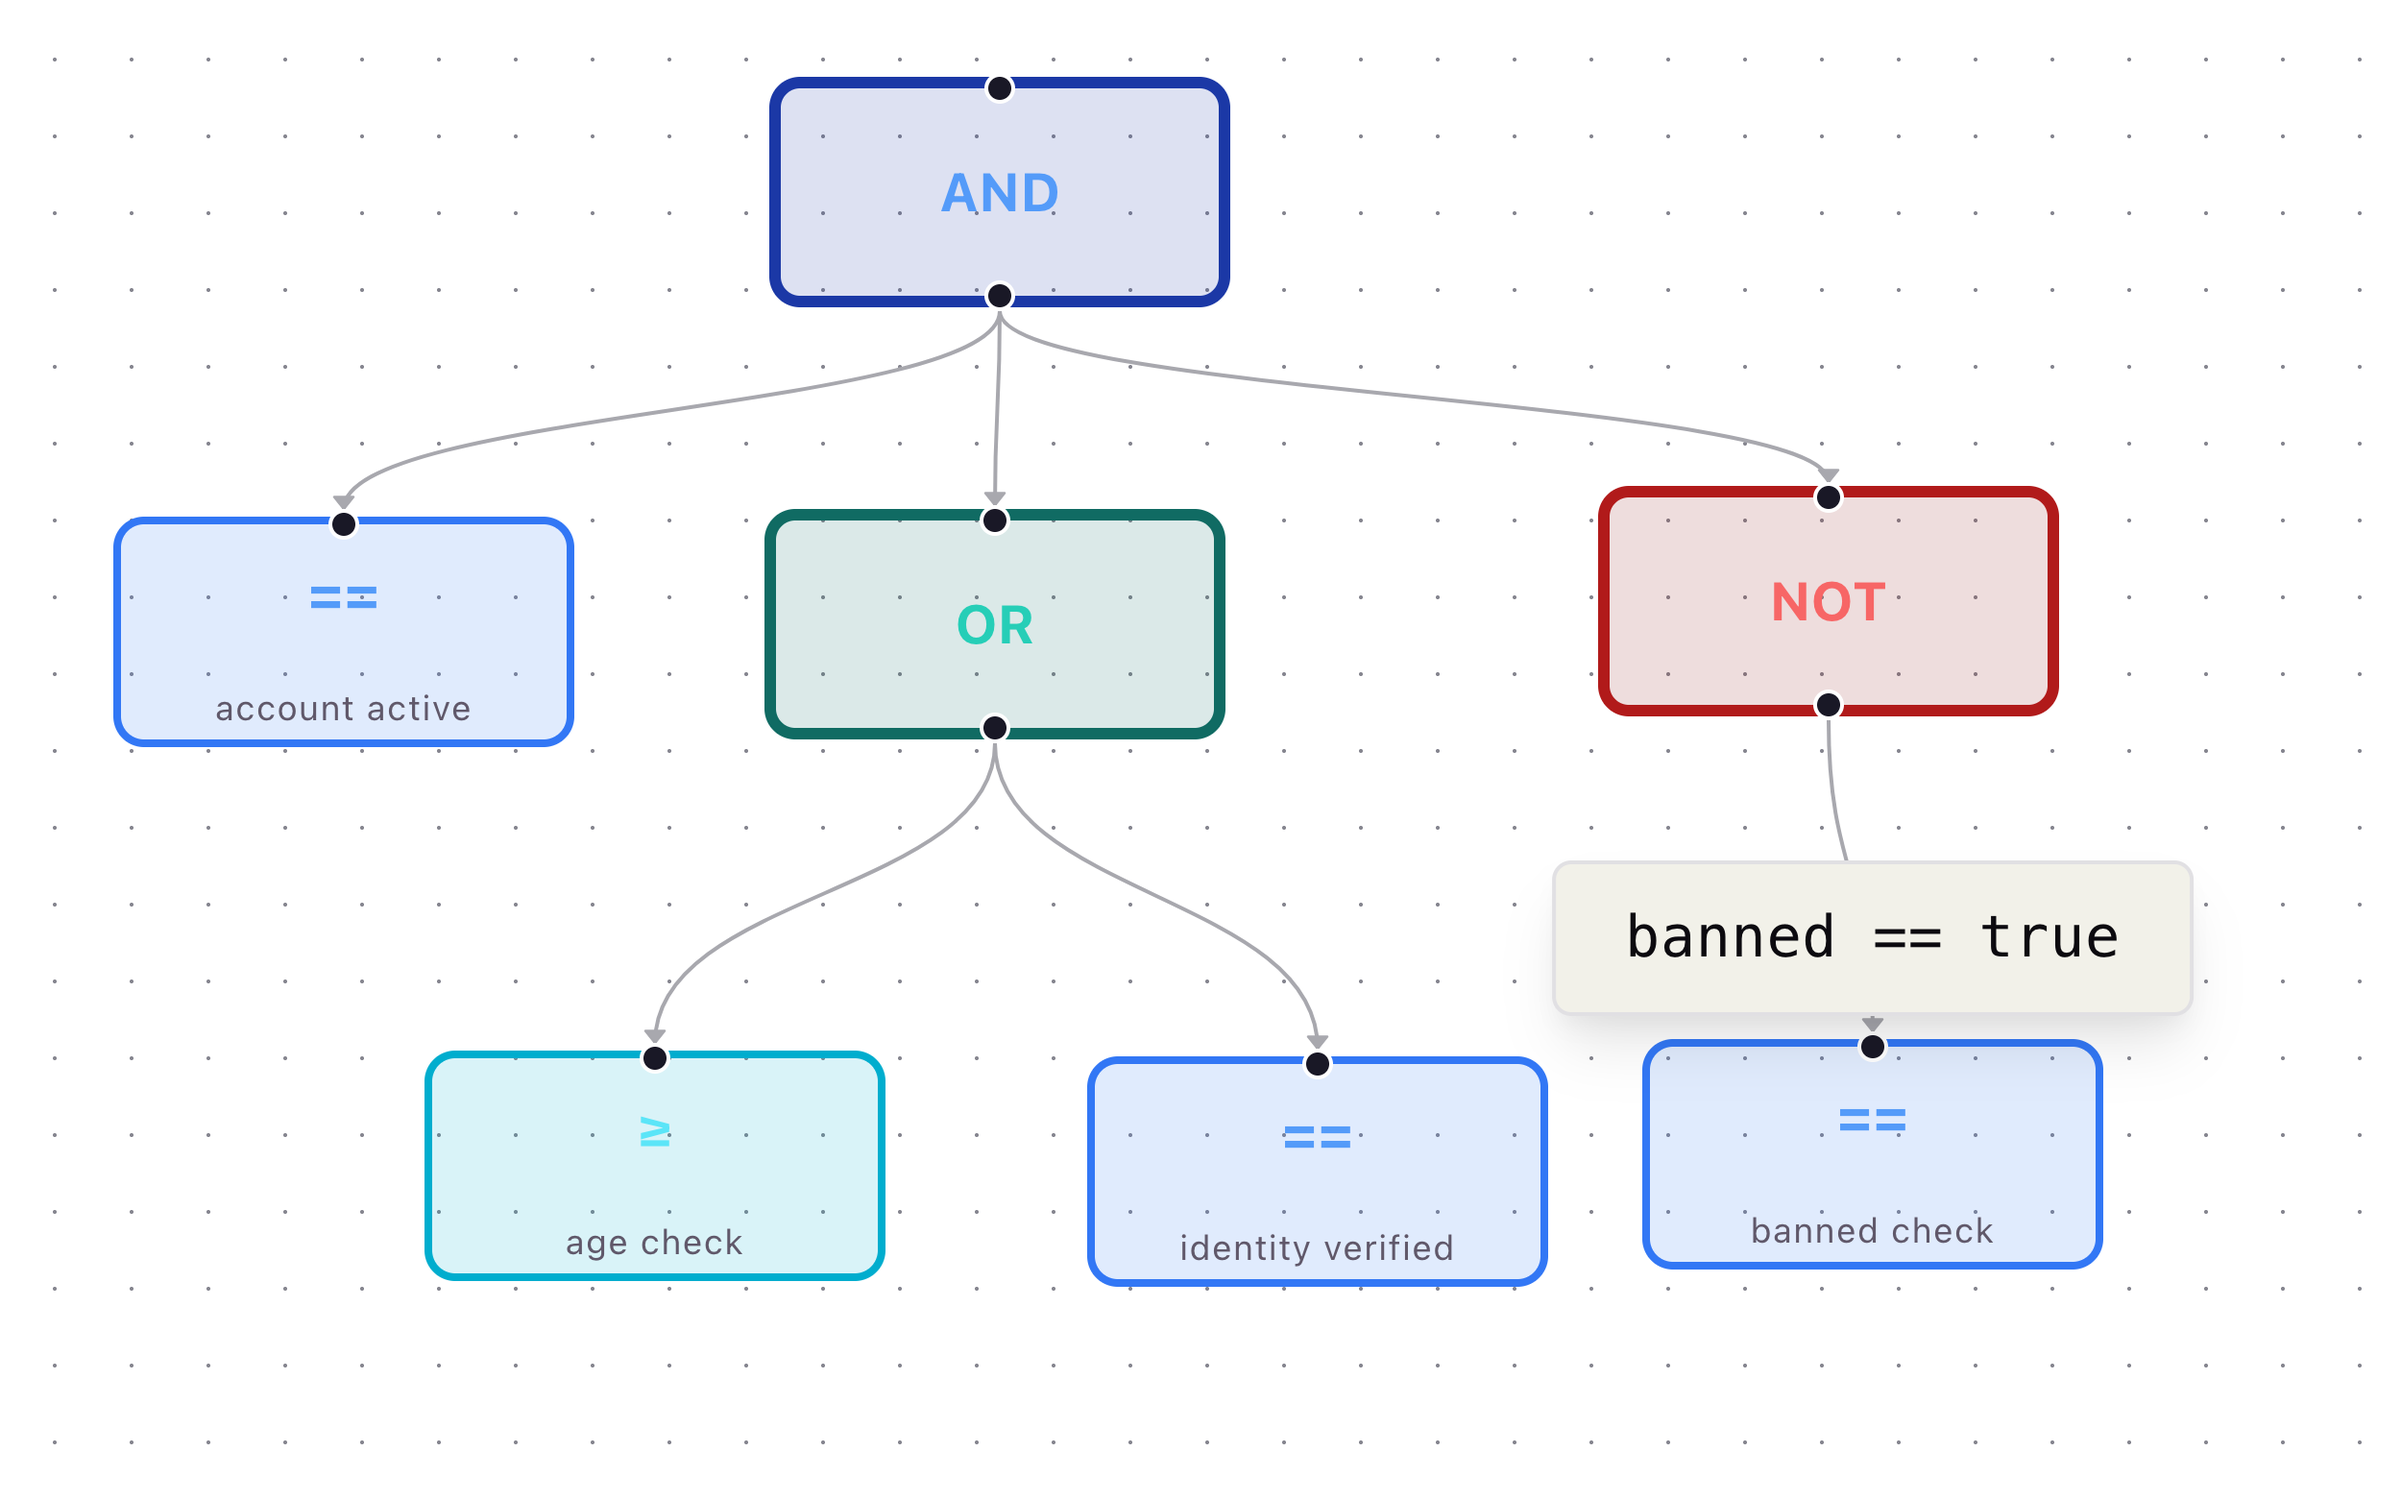
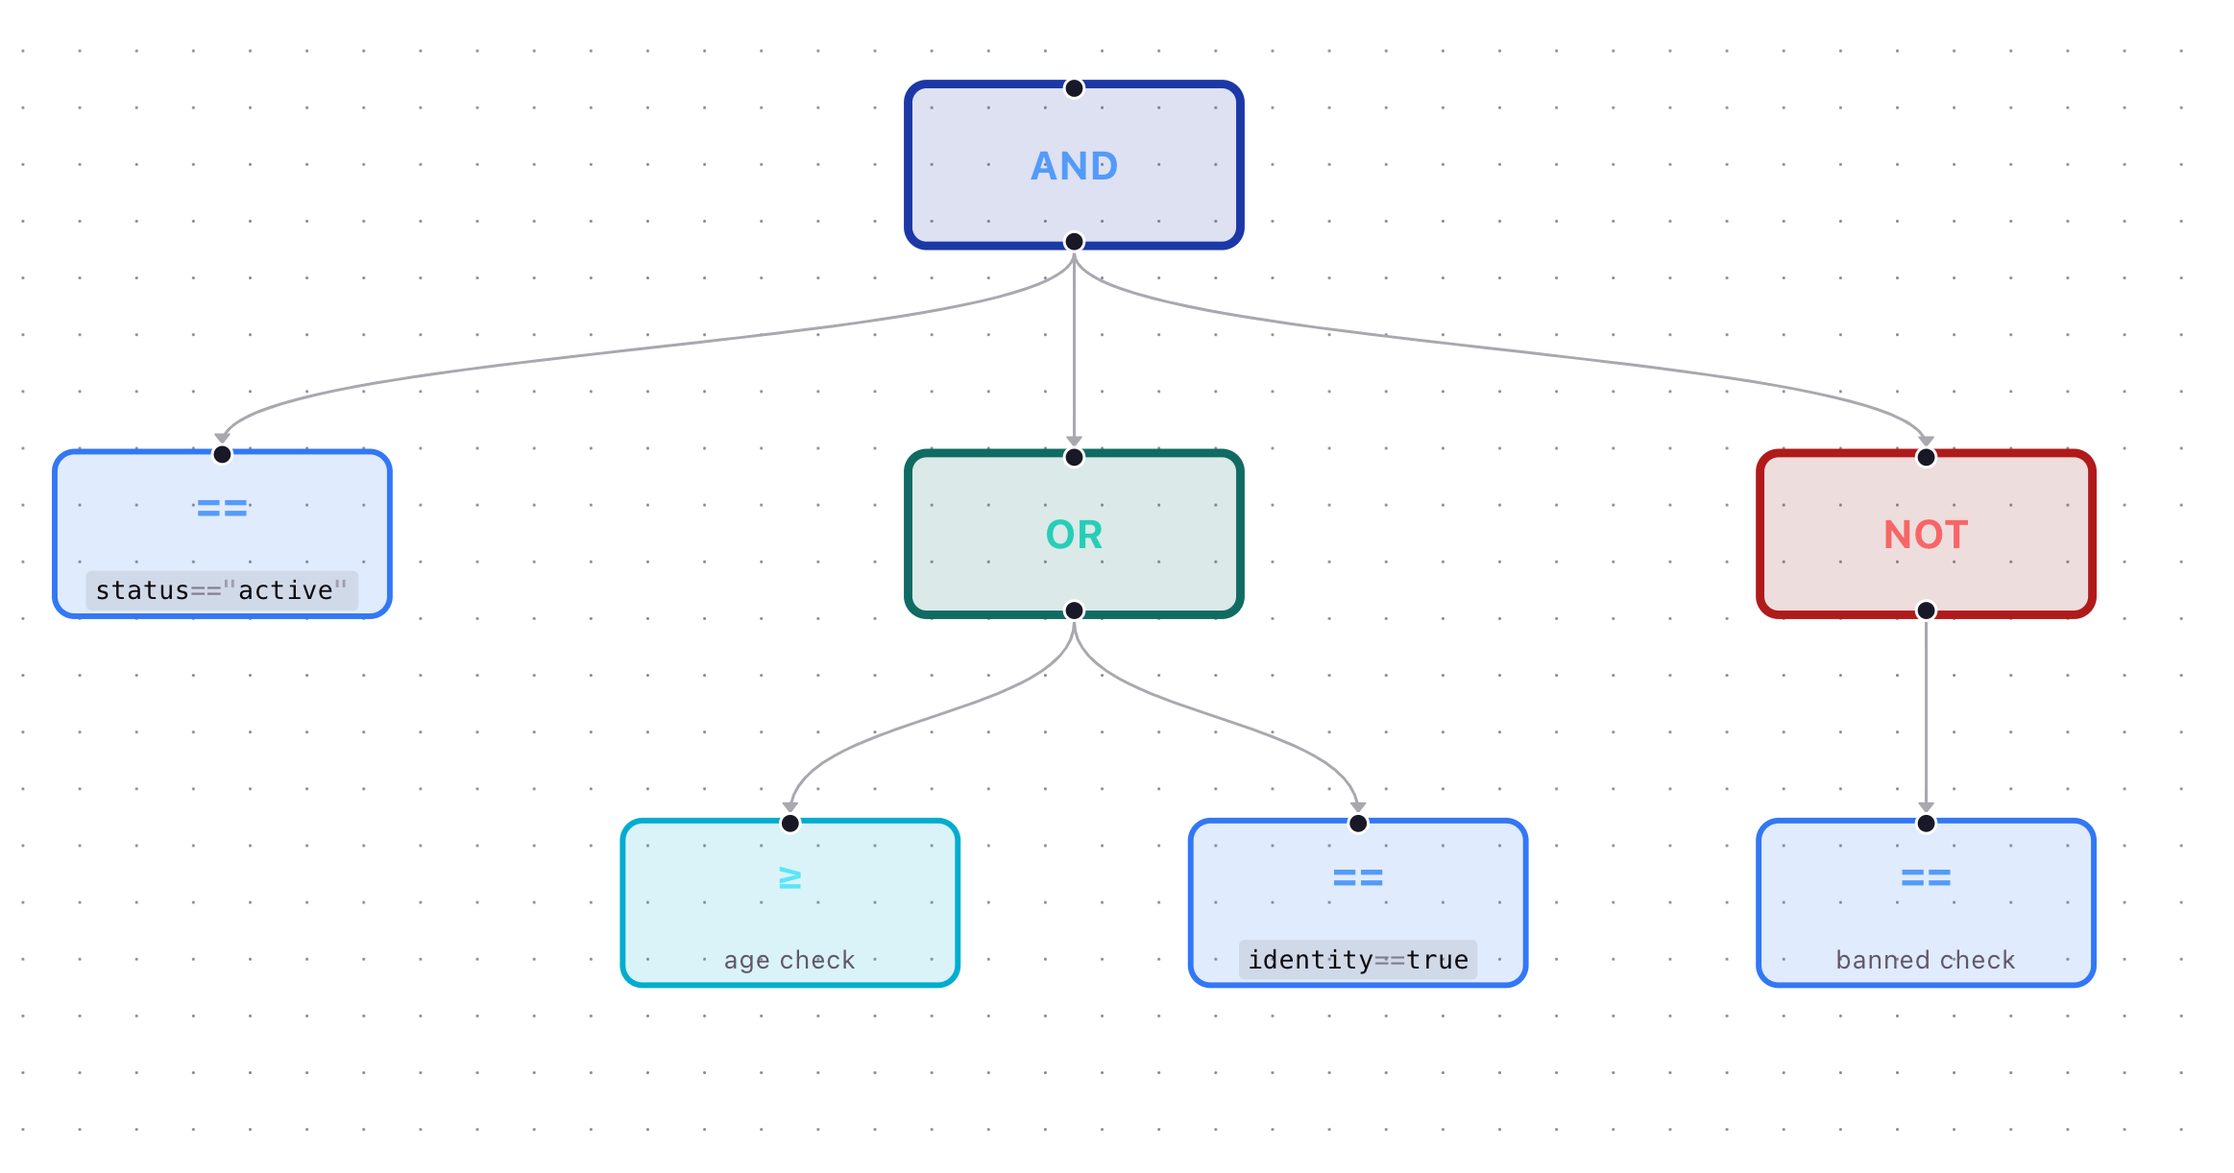
move id and name from properties to root. update screenshots and readme.

diff --git a/src/components/NodeEditModal.tsx b/src/components/NodeEditModal.tsx
@@ -19,6 +19,9 @@ const LIST_VALUE_TYPE_OPTS  = ['List', 'Expression'];
 
 const RELATION_SIGNS = ['AND', 'OR', 'NOT'] as const;
 
+const INT_MIN = -2147483648;
+const INT_MAX =  2147483647;
+
 export interface ConditionData {
   field?: string;
   value?: string;
@@ -31,6 +34,7 @@ export interface ConditionData {
   name?: string;
   cacheable?: boolean;
   ignoreAbsence?: boolean;
+  priority?: number;
 }
 
 type RelationProps = {
@@ -54,6 +58,7 @@ type ConditionProps = {
   initialValueType2?: string;
   initialCacheable?: boolean;
   initialIgnoreAbsence?: boolean;
+  initialPriority?: number;
   onSave: (data: ConditionData) => void;
 };
 
@@ -78,6 +83,8 @@ function NodeEditModal(props: Props) {
   const [valueType2, setValueType2]         = useState('List');
   const [cacheable, setCacheable]           = useState(false);
   const [ignoreAbsence, setIgnoreAbsence]   = useState(false);
+  const [priority, setPriority]             = useState('0');
+  const [priorityError, setPriorityError]   = useState('');
   const [advancedOpen, setAdvancedOpen]     = useState(false);
 
   useEffect(() => {
@@ -89,6 +96,8 @@ function NodeEditModal(props: Props) {
       setName(props.initialName);
       setCacheable(props.initialCacheable ?? false);
       setIgnoreAbsence(props.initialIgnoreAbsence ?? false);
+      setPriority(String(props.initialPriority ?? 0));
+      setPriorityError('');
       setAdvancedOpen(false);
       const s = props.sign;
       if (EXPRESSION_ONLY_SIGNS.has(s)) {
@@ -119,12 +128,20 @@ function NodeEditModal(props: Props) {
   const isDualList     = DUAL_LIST_SIGNS.has(s);
   const valueTypeOpts  = VALUE_TYPE_OPTIONS[s];
 
-  const adv = { cacheable, ignoreAbsence };
-
   const handleSave = () => {
     if (props.kind === 'relation') {
       props.onSave(name, sign);
-    } else if (isExprOnly) {
+      return;
+    }
+
+    const p = Number(priority);
+    if (!Number.isInteger(p) || p < INT_MIN || p > INT_MAX) {
+      setPriorityError(`Must be an integer between ${INT_MIN} and ${INT_MAX}.`);
+      return;
+    }
+
+    const adv = { cacheable, ignoreAbsence, priority: p };
+    if (isExprOnly) {
       props.onSave({ expression, name, ...adv });
     } else if (isFieldOnly) {
       props.onSave({ field, name, ...adv });
@@ -234,6 +251,18 @@ function NodeEditModal(props: Props) {
                       <button type="button" className={`bool-btn${ignoreAbsence ? ' active' : ''}`} onClick={() => setIgnoreAbsence(true)}>True</button>
                       <button type="button" className={`bool-btn${!ignoreAbsence ? ' active' : ''}`} onClick={() => setIgnoreAbsence(false)}>False</button>
                     </div>
+                  </div>
+                  <div className="modal-field">
+                    <label htmlFor="node-priority">Priority</label>
+                    <input
+                      id="node-priority"
+                      type="number"
+                      step="1"
+                      value={priority}
+                      onChange={e => { setPriority(e.target.value); setPriorityError(''); }}
+                      onKeyDown={handleKeyDown}
+                    />
+                    {priorityError && <span className="modal-field-error">{priorityError}</span>}
                   </div>
                 </div>
               )}

diff --git a/src/components/FlowCanvas.tsx b/src/components/FlowCanvas.tsx
@@ -231,6 +231,7 @@ function FlowCanvas({ dragPayloadRef }: Props) {
           initialValueType2={editingNode.data.valueType2}
           initialCacheable={editingNode.data.cacheable === 'true'}
           initialIgnoreAbsence={editingNode.data.ignoreAbsence === 'true'}
+          initialPriority={editingNode.data.priority !== '' && editingNode.data.priority !== undefined ? Number(editingNode.data.priority) : 0}
           onSave={(data: ConditionData) => updateNode(editingNode.id, { ...data })}
           onClose={() => setEditingNode(null)}
         />

diff --git a/src/components/NodeEditModal.css b/src/components/NodeEditModal.css
@@ -178,6 +178,11 @@
   font-weight: 400;
 }
 
+.modal-field-error {
+  font-size: 11px;
+  color: #f87171;
+}
+
 .modal-actions {
   display: flex;
   justify-content: flex-end;

diff --git a/README.md b/README.md
@@ -6,6 +6,22 @@ A visual editor for building and exporting the tree-based rule data structures c
 
 celero-ui lets you compose rule trees by dragging nodes onto a canvas, connecting them, and exporting the result as JSON. The exported JSON is directly compatible with the rule engine format expected by celero and celero-go.
 
+## Screenshots
+
+![Editor UI](screenshots/page.png)
+
+The left sidebar lists all available node types. Drag any node onto the canvas, then draw edges between nodes to build the tree.
+
+![Rule tree](screenshots/rule_tree.png)
+
+The canvas renders the tree with colour-coded nodes for each sign — AND (blue), OR (teal), NOT (red), and condition nodes in their respective colours.
+
+| Import | Export |
+| ------ | ------ |
+| ![Import modal](screenshots/import.png) | ![Export panel](screenshots/export.png) |
+
+Paste existing rule JSON into the Import dialog to restore a tree with automatic layout. The Export dialog validates the tree and copies the JSON to your clipboard.
+
 ## Node types
 
 **Logic (relation) nodes** — combine child conditions using boolean logic:
@@ -65,33 +81,94 @@ The exported JSON is a recursive tree. Relation nodes carry a `children` array; 
 
 ### Full example
 
+The tree shown in the screenshots above exports as:
+
 ```json
 {
-  "id": "root",
-  "type": "relation",
+  "id": "AND-b433fcc1",
   "sign": "AND",
+  "type": "relation",
+  "description": "All conditions are true",
   "children": [
     {
-      "id": "cond-age",
+      "id": "EQ-b4380ef9",
+      "sign": "EQ",
       "type": "condition",
-      "sign": "GTE",
-      "cacheable": false,
-      "ignoreAbsence": false,
+      "name": "",
+      "cacheable": true,
+      "ignoreAbsence": true,
       "properties": {
-        "field": "user.age",
-        "value": "18",
-        "valueType": "Number"
+        "description": "equal",
+        "displayName": "==",
+        "field": "status",
+        "value": "active",
+        "valueType": "String",
+        "priority": -10
       }
     },
     {
-      "id": "cond-email",
-      "type": "condition",
-      "sign": "EXISTS",
-      "cacheable": false,
-      "ignoreAbsence": false,
-      "properties": {
-        "field": "user.email"
-      }
+      "id": "OR-d9c065ba",
+      "sign": "OR",
+      "type": "relation",
+      "description": "Any condition is true",
+      "children": [
+        {
+          "id": "GTE-dd7fe727",
+          "sign": "GTE",
+          "type": "condition",
+          "name": "age check",
+          "cacheable": true,
+          "ignoreAbsence": false,
+          "properties": {
+            "description": "greater than or equal",
+            "displayName": "≥",
+            "field": "age",
+            "value": "18",
+            "valueType": "Number",
+            "priority": 3
+          }
+        },
+        {
+          "id": "EQ-f5f25c31",
+          "sign": "EQ",
+          "type": "condition",
+          "name": "",
+          "cacheable": false,
+          "ignoreAbsence": true,
+          "properties": {
+            "description": "equal",
+            "displayName": "==",
+            "field": "identity",
+            "value": "true",
+            "valueType": "Boolean",
+            "priority": 10
+          }
+        }
+      ]
+    },
+    {
+      "id": "NOT-377af4d9",
+      "sign": "NOT",
+      "type": "relation",
+      "description": "Condition is false",
+      "children": [
+        {
+          "id": "EQ-175115d1",
+          "sign": "EQ",
+          "type": "condition",
+          "name": "banned check",
+          "cacheable": false,
+          "ignoreAbsence": false,
+          "properties": {
+            "description": "equal",
+            "displayName": "==",
+            "field": "banned",
+            "value": "true",
+            "valueType": "Boolean",
+            "priority": 0
+          }
+        }
+      ]
     }
   ]
 }
@@ -110,12 +187,13 @@ Each condition sign uses a different set of `properties` fields:
 | `REGEX` | `field`, `value` |
 | `CEL` | `expression` |
 
-All condition nodes also support two optional top-level flags:
+All condition nodes also support these top-level flags (configurable in the Advanced panel):
 
 | Flag | Type | Default | Meaning |
 | ---- | ---- | ------- | ------- |
 | `cacheable` | boolean | `false` | Allow the rule engine to cache this condition's result |
 | `ignoreAbsence` | boolean | `false` | Treat a missing field as if the condition passed |
+| `priority` | integer | `0` | Evaluation priority; valid range is `Integer.MIN_VALUE` (−2 147 483 648) to `Integer.MAX_VALUE` (2 147 483 647). Exported inside `properties`. |
 
 ## Structural constraints
 
